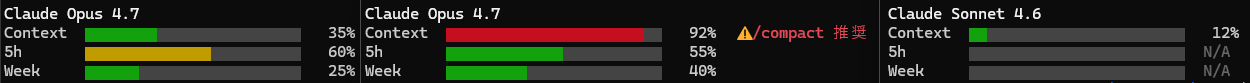
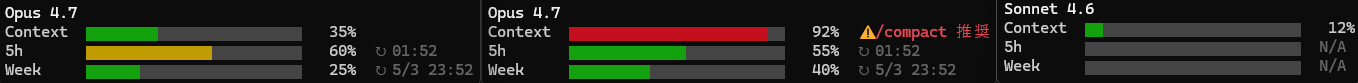
feat: show next reset time on 5h / week bars
Read rate_limits.{five_hour,seven_day}.resets_at (Unix epoch) and append
the next reset time in local timezone (HH:MM for 5h, M/D HH:MM for week)
to the right of each percentage. Falls back gracefully when resets_at is
missing.

diff --git a/statusline.py b/statusline.py
@@ -2,6 +2,7 @@
 """Claude Code Status Line: model name + context/5h/week usage bars."""
 import json
 import sys
+import time
 
 BAR_WIDTH = 24
 LABEL_WIDTH = 9
@@ -37,6 +38,27 @@ def get_pct(data: dict, *path: str) -> int:
     return -1
 
 
+def get_epoch(data: dict, *path: str):
+    cur = data
+    for key in path:
+        if not isinstance(cur, dict) or cur.get(key) is None:
+            return None
+        cur = cur[key]
+    if isinstance(cur, bool):
+        return None
+    if isinstance(cur, (int, float)):
+        return int(cur)
+    return None
+
+
+def format_reset(epoch: int, with_date: bool) -> str:
+    lt = time.localtime(epoch)
+    hm = time.strftime("%H:%M", lt)
+    if with_date:
+        return f"{lt.tm_mon}/{lt.tm_mday} {hm}"
+    return hm
+
+
 def render_bar(label: str, pct: int) -> str:
     if pct < 0:
         bar = f"{EMPTY_COLOR}{EMPTY_CHAR * BAR_WIDTH}{RESET}"
@@ -61,12 +83,18 @@ def main() -> None:
     ctx = get_pct(data, "context_window", "used_percentage")
     five = get_pct(data, "rate_limits", "five_hour", "used_percentage")
     week = get_pct(data, "rate_limits", "seven_day", "used_percentage")
+    five_reset = get_epoch(data, "rate_limits", "five_hour", "resets_at")
+    week_reset = get_epoch(data, "rate_limits", "seven_day", "resets_at")
 
     lines = [f"{BOLD}{model_name}{RESET}"]
     for label, pct in (("Context", ctx), ("5h", five), ("Week", week)):
         line = render_bar(label, pct)
         if label == "Context" and pct >= 80:
             line += f"  \033[1;31m⚠ /compact 推奨\033[0m"
+        elif label == "5h" and pct >= 0 and five_reset is not None:
+            line += f"  {DIM}↻ {format_reset(five_reset, False)}{RESET}"
+        elif label == "Week" and pct >= 0 and week_reset is not None:
+            line += f"  {DIM}↻ {format_reset(week_reset, True)}{RESET}"
         lines.append(line)
 
     sys.stdout.write("\n".join(lines))

diff --git a/README.md b/README.md
@@ -10,6 +10,7 @@ Claude Code 用のシンプルな Status Line。**モデル名・コンテキス
 - バーは下 3/4 ブロック (`▆`) で太く・行間に隙間
 - **段階色**: 〜59% 緑 / 60〜79% 黄 / 80%〜 赤
 - **コンテキスト 80% 以上で `⚠ /compact 推奨` を末尾に表示**
+- **5h / Week バーの末尾に次回リセット時刻 (`↻ HH:MM` / `↻ M/D HH:MM`) をローカル時刻で表示**
 - レートリミット情報が無いとき（非サブスク・初回起動直後など）は `N/A` でフォールバック
 - 標準ライブラリのみ（外部依存なし）
 
@@ -19,10 +20,12 @@ Claude Code 用のシンプルな Status Line。**モデル名・コンテキス
 |----|------|----|
 | 1 | モデル名（太字） | `model.display_name` |
 | 2 | Context バー + % | `context_window.used_percentage` |
-| 3 | 5h バー + % | `rate_limits.five_hour.used_percentage` |
-| 4 | Week バー + % | `rate_limits.seven_day.used_percentage` |
+| 3 | 5h バー + % + ↻ リセット時刻 | `rate_limits.five_hour.used_percentage` / `.resets_at` |
+| 4 | Week バー + % + ↻ リセット時刻 | `rate_limits.seven_day.used_percentage` / `.resets_at` |
 
 5h / Week は Claude Code から渡される値をそのまま使うため、**サブスクリプションの実際の残量と一致**します。値が無いときは自動で `N/A` 表示にフォールバックします。
+
+`resets_at` は Unix epoch 秒で渡されるため、本スクリプトは **ローカルタイムゾーンに変換** して表示します。5h は当日内に必ず収まるため `HH:MM` のみ、Week は数日先まで延びるため `M/D HH:MM` 形式で表示します。`resets_at` だけが欠けている場合は時刻表記を省略し、% のみ表示します。
 
 ## 必要環境
 
@@ -132,6 +135,7 @@ A simple Status Line for [Claude Code](https://claude.com/claude-code) that disp
 - Bars use the lower-three-quarters block (`▆`) for visual weight with breathing room between rows
 - **Stage colors**: 0–59% green / 60–79% yellow / 80%+ red
 - **Shows `⚠ /compact 推奨` next to the Context bar when context usage reaches 80%**
+- **Shows the next reset time (`↻ HH:MM` / `↻ M/D HH:MM`, local timezone) at the right end of the 5h / Week bars**
 - Falls back to `N/A` when rate-limit info is unavailable (e.g. non-subscribers, fresh sessions)
 - Pure standard library — no external dependencies
 
@@ -141,10 +145,12 @@ A simple Status Line for [Claude Code](https://claude.com/claude-code) that disp
 |----|------|----|
 | 1 | Model name (bold) | `model.display_name` |
 | 2 | Context bar + % | `context_window.used_percentage` |
-| 3 | 5h bar + % | `rate_limits.five_hour.used_percentage` |
-| 4 | Week bar + % | `rate_limits.seven_day.used_percentage` |
+| 3 | 5h bar + % + ↻ reset time | `rate_limits.five_hour.used_percentage` / `.resets_at` |
+| 4 | Week bar + % + ↻ reset time | `rate_limits.seven_day.used_percentage` / `.resets_at` |
 
 The 5h / Week values are passed in directly by Claude Code, so they reflect the **actual subscription remaining**. Missing values fall back to `N/A`.
+
+`resets_at` is provided as a Unix epoch seconds integer, so this script converts it to **the local timezone** for display. The 5h reset always falls within the current day, so it is shown as `HH:MM`; the weekly reset can be several days out, so it is shown as `M/D HH:MM`. If only `resets_at` is missing while `used_percentage` is present, the timestamp is omitted and only the percentage is shown.
 
 ## Requirements
 
